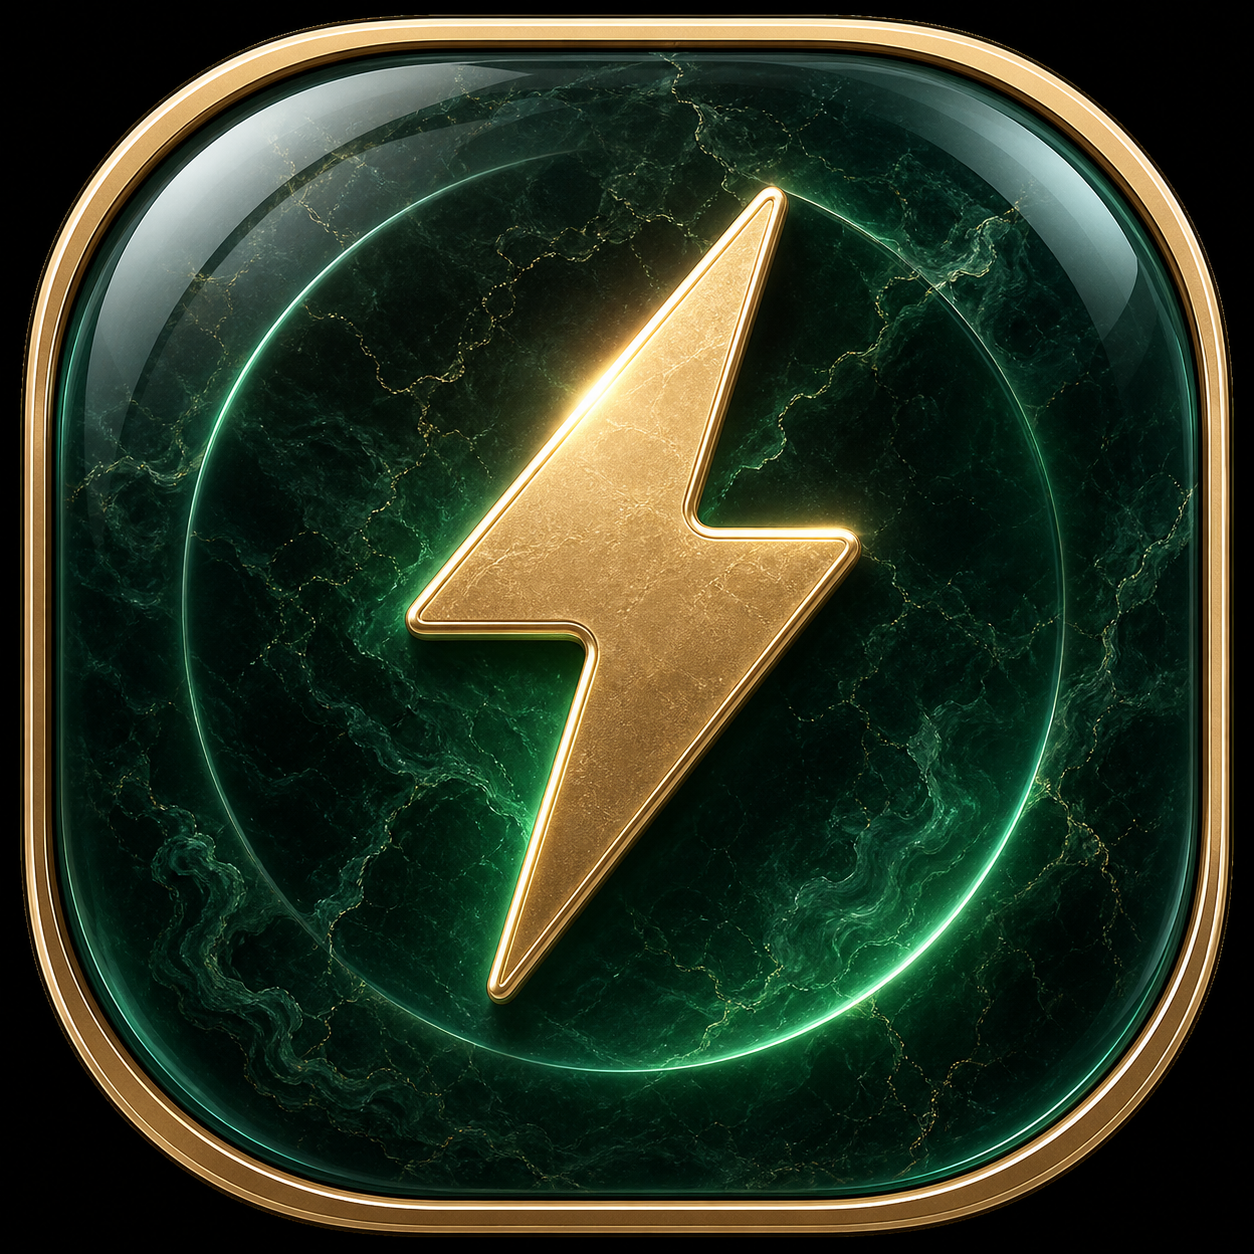
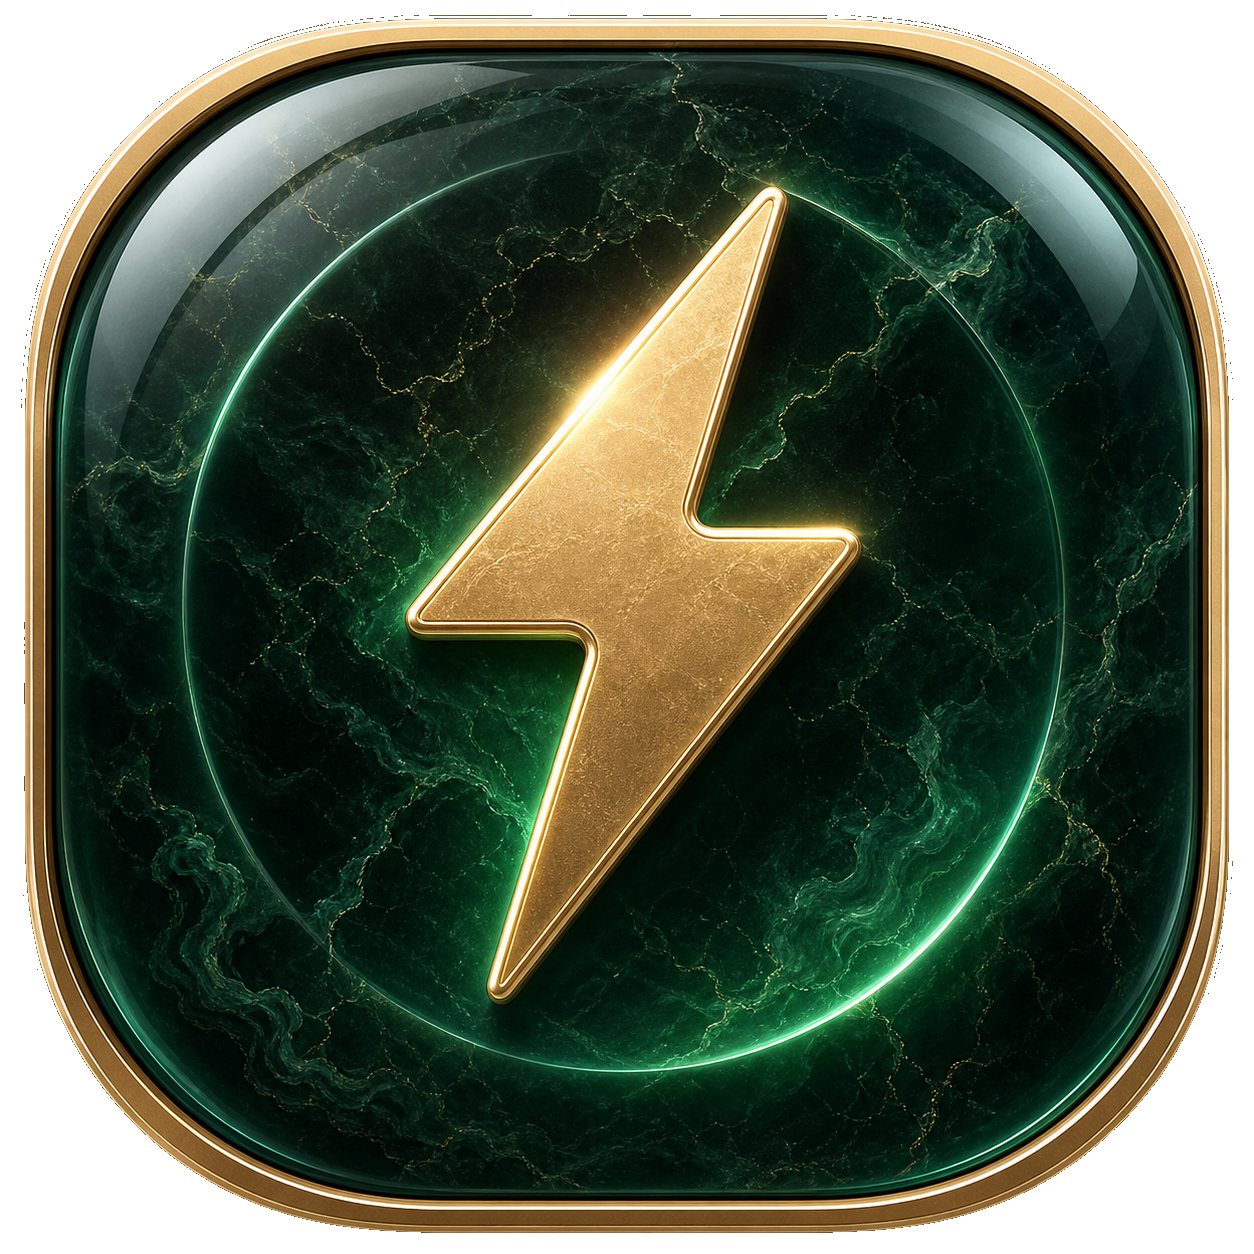
Release CodexBar v0.2.1

Changed region(s): [[0.0, 0.0, 1.0, 1.0]]

diff --git a/src/ui/SettingsHoverPanel.tsx b/src/ui/SettingsHoverPanel.tsx
@@ -243,15 +243,17 @@ export function SettingsHoverPanel({
           </span>
           <small>{getUpdateSummary(updateStatus)}</small>
         </span>
-        <button
-          className="settings-upgrade-button"
-          type="button"
-          onClick={() => void handleUpgradeClick()}
-          disabled={updateStatus.checking || updateStatus.downloading}
-        >
-          {updateStatus.downloading ? "下载中" : updateStatus.checking ? "检查中" : "升级"}
-        </button>
-        <small className="settings-upgrade-hint">{getUpgradeHint(updateStatus, upgradeHint)}</small>
+        <span className="settings-upgrade-control">
+          <button
+            className="settings-upgrade-button"
+            type="button"
+            onClick={() => void handleUpgradeClick()}
+            disabled={updateStatus.checking || updateStatus.downloading}
+          >
+            {updateStatus.downloading ? "下载中" : updateStatus.checking ? "检查中" : "升级"}
+          </button>
+          <small className="settings-upgrade-hint">{getUpgradeHint(updateStatus, upgradeHint)}</small>
+        </span>
       </div>
       <label className="settings-extra-row settings-update-auto-row">
         <span className="settings-row-title">

diff --git a/src/styles.css b/src/styles.css
@@ -530,7 +530,7 @@ body {
 
 .settings-update-row {
   display: flex;
-  align-items: center;
+  align-items: flex-start;
   justify-content: space-between;
   min-height: 34px;
   gap: 14px;
@@ -538,6 +538,7 @@ body {
 
 .settings-update-copy {
   min-width: 0;
+  flex: 1 1 auto;
   display: grid;
   gap: 3px;
 }
@@ -563,6 +564,14 @@ body {
     0 0 12px rgba(255, 77, 93, 0.35);
 }
 
+.settings-upgrade-control {
+  margin-left: auto;
+  min-width: 70px;
+  display: grid;
+  justify-items: end;
+  gap: 2px;
+}
+
 .settings-upgrade-button {
   position: relative;
   min-width: 54px;
@@ -583,10 +592,11 @@ body {
 }
 
 .settings-upgrade-hint {
-  width: 44px;
+  min-width: 54px;
+  min-height: 11px;
   color: rgba(232, 214, 164, 0.78);
   font-size: 9px;
-  text-align: left;
+  text-align: right;
 }
 
 .settings-update-auto-row {

diff --git a/src/version.ts b/src/version.ts
@@ -1,3 +1,3 @@
-export const APP_VERSION = "0.2.0";
+export const APP_VERSION = "0.2.1";
 export const RELEASES_URL = "https://github.com/Aecenas/CodexBar/releases";
 export const LATEST_RELEASE_API_URL = "https://api.github.com/repos/Aecenas/CodexBar/releases/latest";

diff --git a/README.md b/README.md
@@ -85,7 +85,9 @@ The Windows executable, shortcuts, and tray icon all use the generated CodexBar 
 
 ## Release
 
-Version `v0.2.0` adds automatic update installation and a tray startup toggle.
+Version `v0.2.1` fixes transparent icon backgrounds and aligns the upgrade button in the settings panel.
+
+Public builds are currently unsigned, so Windows may show an unknown-publisher warning during installation.
 
 ## License
 